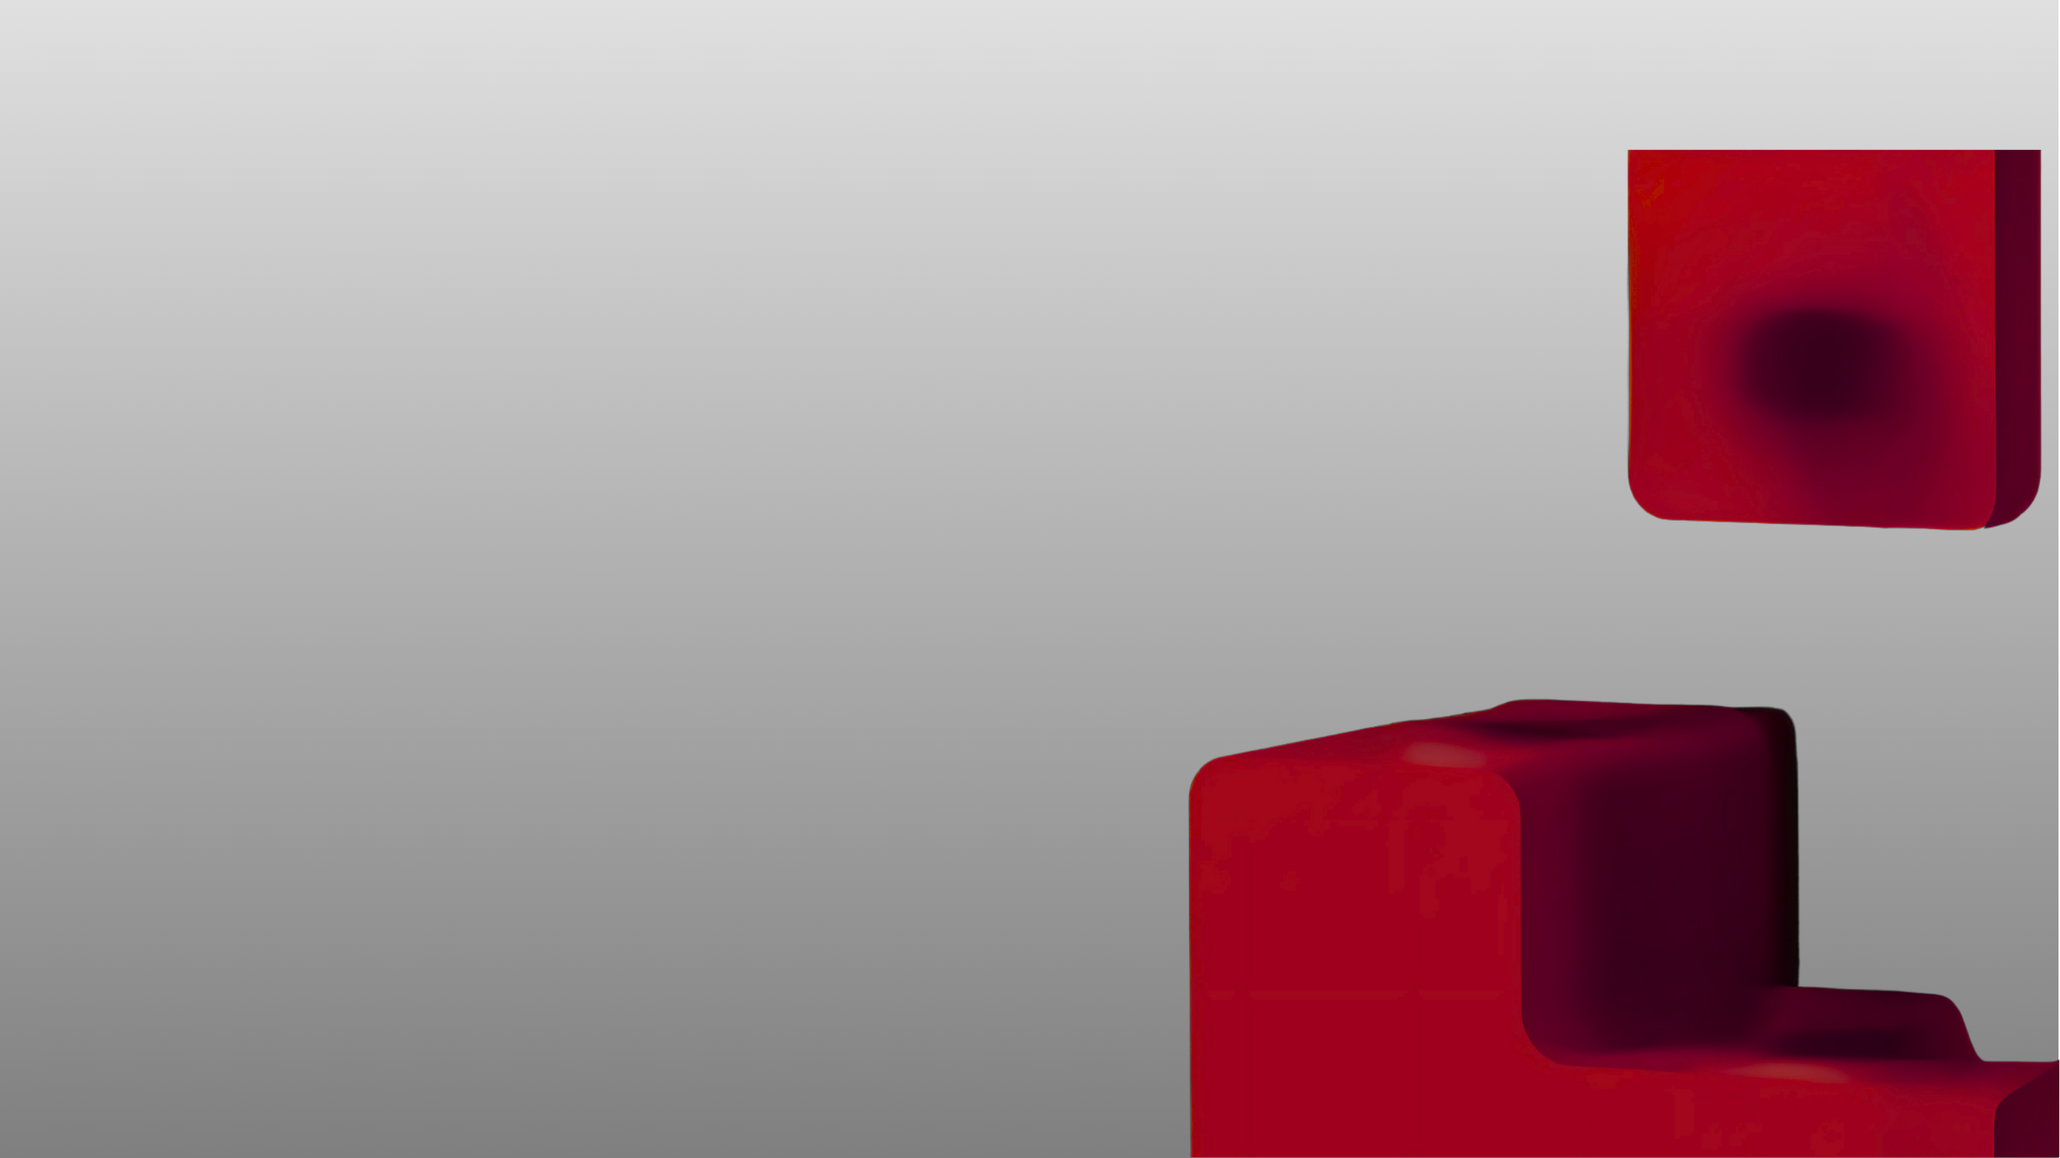
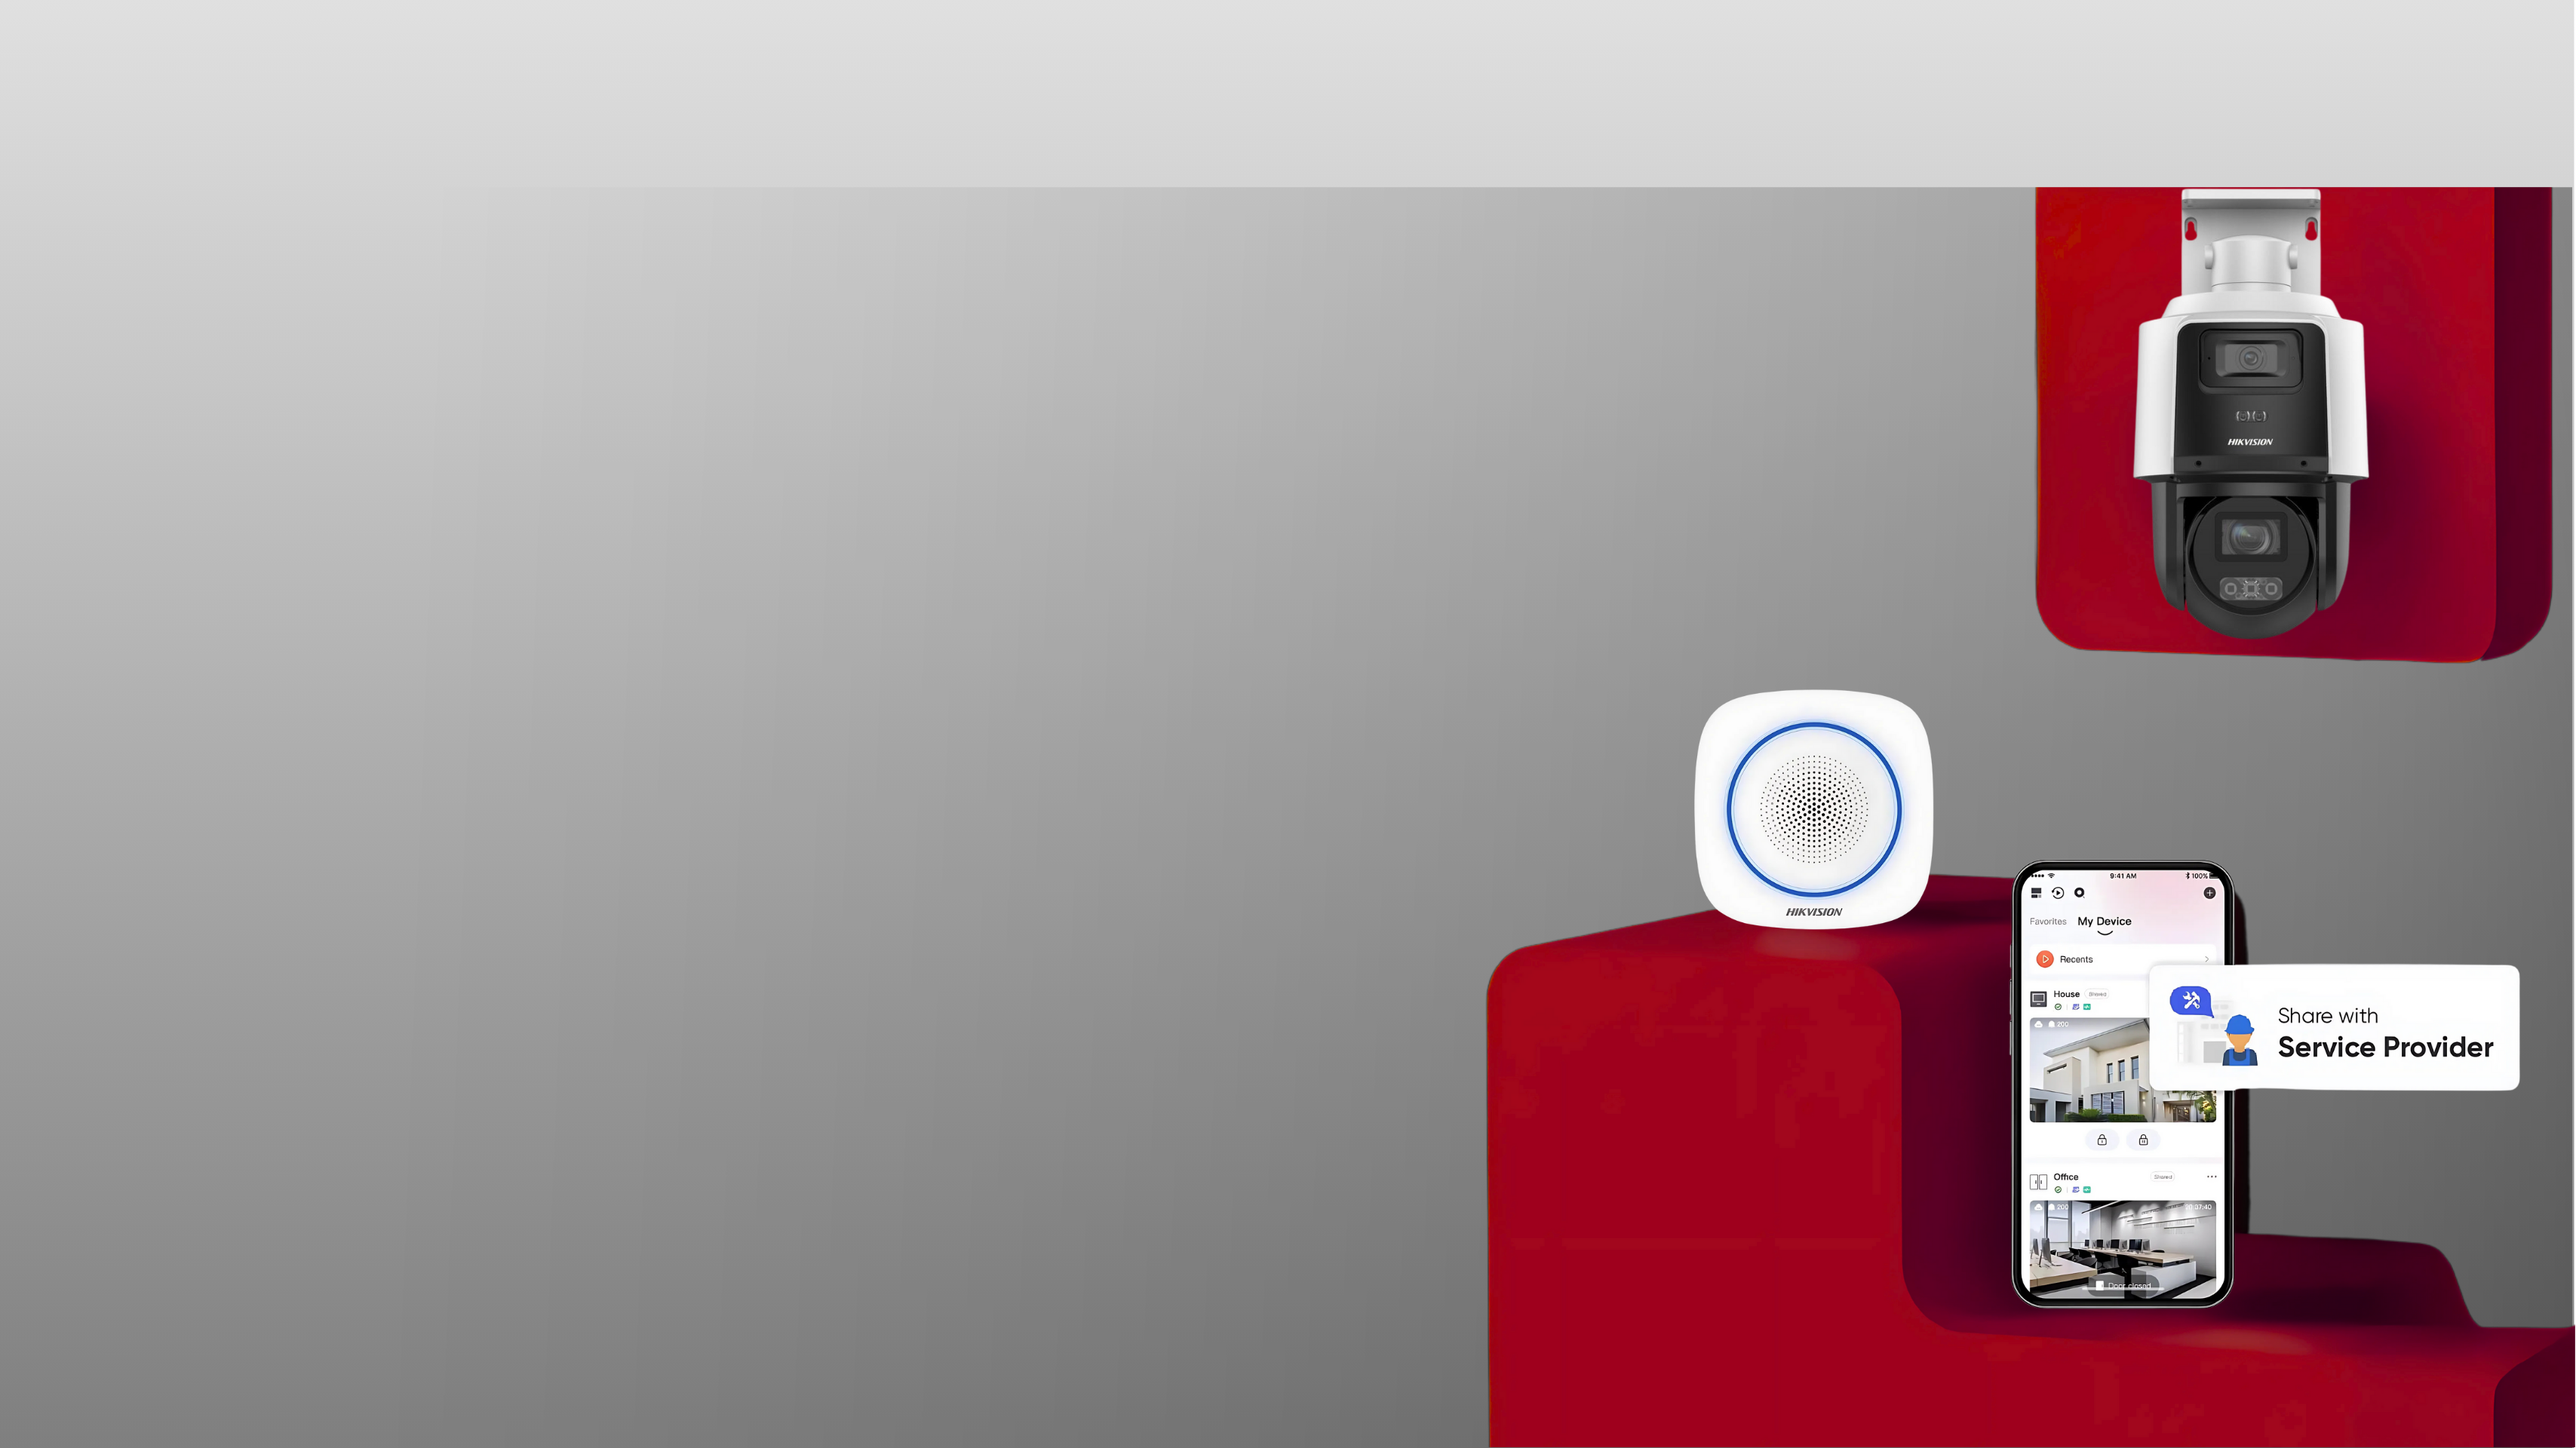
Update Fixed

Changed region(s): [[0.5289, 0.125, 1.0, 0.9375]]

diff --git a/components/AlarmSection.tsx b/components/AlarmSection.tsx
@@ -1,119 +1,90 @@
 "use client"
 
-import { useState } from "react"
+import { useState, useEffect } from "react"
 import Image from "next/image"
 
 export default function AlarmSection() {
     const [activeTab, setActiveTab] = useState("Break-in")
+    const [currentImage, setCurrentImage] = useState("/Images/Tab2/break-in (img).png")
+    const [fade, setFade] = useState(true)
+
+    const backgroundImages: { [key: string]: string } = {
+        "Break-in": "/Images/Tab2/break-in (img).png",
+        "Outdoor": "/Images/Tab2/outdoor.png",
+        "Deliveries": "/Images/Tab2/delivery.png",
+    }
+
+    const cctvImage = "/Images/break-in (cctv).png"
+
+    useEffect(() => {
+        setFade(false)
+        const timeout = setTimeout(() => {
+            setCurrentImage(backgroundImages[activeTab])
+            setFade(true)
+        }, 200) // delay before image swap
+        return () => clearTimeout(timeout)
+    }, [activeTab])
 
     return (
-        <div
-            style={{
-                maxWidth: "1000px",
-                margin: "0 auto",
-                padding: "10px 20px",
-                fontFamily: "Arial, sans-serif",
-            }}
-            className="!my-6 !mx-auto"
-        >
-            <h2
-                style={{
-                    textAlign: "center",
-                    fontSize: "36px",
-                    fontWeight: "bold",
-                    marginBottom: "16px",
-                }}
-            >
+        <div className="max-w-[1000px] mx-auto px-[20px] py-[10px] font-[Arial,sans-serif] my-6">
+            <h2 className="text-center text-[36px] font-bold mb-[16px]">
                 During an Alarm
             </h2>
 
-            <p
-                style={{
-                    textAlign: "center",
-                    fontSize: "18px",
-                    maxWidth: "800px",
-                    margin: "0 auto 30px",
-                    lineHeight: "1.5",
-                }}
-            >
+            <p className="text-center text-[18px] max-w-[800px] mx-auto mb-[30px] leading-[1.5]">
                 With the one-of-a-kind Pro Premium Monitoring Plan, our highly trained agents can act quickly in an emergency.
                 Here is how.
             </p>
 
             {/* Tab buttons */}
-            <div
-                style={{
-                    display: "flex",
-                    justifyContent: "center",
-                    gap: "16px",
-                    marginBottom: "24px",
-                }}
-            >
-                <div
-                    style={{
-                        display: "flex",
-                        flexWrap: "wrap",
-                        justifyContent: "center",
-                        gap: "10px",
-                        padding: "10px",
-                    }}
-                >
+            <div className="flex justify-center gap-[16px] mb-[24px]">
+                <div className="flex flex-wrap justify-center gap-[10px] p-[10px]">
                     {["Break-in", "Outdoor", "Deliveries"].map((tab) => (
                         <button
                             key={tab}
                             onClick={() => setActiveTab(tab)}
-                            style={{
-                                padding: "10px 24px",
-                                borderRadius: "30px",
-                                border: "1px solid #2196F3",
-                                backgroundColor: activeTab === tab ? "#2196F3" : "transparent",
-                                color: activeTab === tab ? "white" : "#2196F3",
-                                fontSize: "16px",
-                                fontWeight: "500",
-                                cursor: "pointer",
-                                transition: "all 0.3s ease",
-                                flex: "1 1 auto", // allow shrinking and growing
-                                minWidth: "100px", // minimum width for buttons
-                                textAlign: "center",
-                            }}
+                            className={`py-[10px] px-[24px] rounded-[30px] border border-[#2196F3] text-[16px] font-medium cursor-pointer transition-all duration-300 ease-in-out flex-[1_1_auto] min-w-[100px] text-center ${activeTab === tab
+                                ? "bg-[#2196F3] text-white"
+                                : "bg-transparent text-[#2196F3]"
+                                }`}
                         >
                             {tab}
                         </button>
                     ))}
                 </div>
-
             </div>
 
             <div className="relative w-full flex justify-center">
-                {/* Background Image */}
-                <Image
-                    className="mx-auto"
-                    src={'/Images/break-in (img).png'}
-                    alt="Break-in illustration"
-                    width={900}
-                    height={600}
-                />
+                {/* Background Image with fade transition */}
+                <div
+                    className={`transition-opacity duration-500 ${fade ? "opacity-100" : "opacity-0"}`}
+                >
+                    <Image
+                        className="mx-auto"
+                        src={currentImage}
+                        alt={`${activeTab} illustration`}
+                        width={900}
+                        height={600}
+                    />
+                </div>
 
                 {/* CCTV Image */}
                 <Image
                     className="
-      absolute 
-      bottom-[-40px] 
-      right-2 
-      w-[120px] 
-      sm:w-[160px] 
-      md:w-[300px] md:bottom-[-50px] md:right-10 
-      lg:w-[400px] lg:bottom-[-65px] lg:right-6
-    "
-                    src={'/Images/break-in (cctv).png'}
+                        absolute 
+                        bottom-[-40px] 
+                        right-2 
+                        w-[120px] 
+                        sm:w-[160px] 
+                        md:w-[300px] md:bottom-[-50px] md:right-10 
+                        lg:w-[400px] lg:bottom-[-65px] lg:right-6
+                    "
+                    src={cctvImage}
                     alt="Camera"
                     width={400}
                     height={400}
                 />
             </div>
-
-
         </div>
     )
 }
-

diff --git a/components/security-tabs.tsx b/components/security-tabs.tsx
@@ -13,6 +13,7 @@ export default function SecurityTabs() {
       id: "camera",
       label: "Camera",
       title: "Indoor and outdoor CCTV",
+      image: "/Images/Tabs/camera screenshot.png",
       features: [
         "Easily accessible on multiple devices including phones.",
         "Easy download of incident footage",
@@ -25,6 +26,7 @@ export default function SecurityTabs() {
       id: "doorbell",
       label: "Doorbell",
       title: "Smart Doorbell System",
+      image: "/Images/Tabs/doorbell.png",
       features: [
         "Two-way audio communication",
         "Motion-activated alerts",
@@ -37,6 +39,7 @@ export default function SecurityTabs() {
       id: "intercom",
       label: "Intercom",
       title: "Building Intercom System",
+      image: "/Images/Tabs/intercom.png",
       features: [
         "Connect with visitors at entrance",
         "Remote door unlock feature",
@@ -49,6 +52,7 @@ export default function SecurityTabs() {
       id: "alarms",
       label: "Alarms",
       title: "Security Alarm Solutions",
+      image: "/Images/Tabs/alarm.png",
       features: [
         "24/7 monitoring capabilities",
         "Instant notifications on your devices",
@@ -59,13 +63,14 @@ export default function SecurityTabs() {
     },
   ]
 
+
   return (
-    <div className="flex flex-col md:flex-row overflow-hidden rounded-4xl max-w-6xl mx-auto   my-12">
+    <div className="flex flex-col md:flex-row overflow-hidden rounded-4xl max-w-6xl mx-auto my-12">
       <div className="w-full md:w-5/12 bg-gray-100 p-6 flex items-center justify-center">
         <div className="relative max-w-[500px]">
           <Image
-            src="/Images/camera screenshot.png"
-            alt="Security camera app on smartphone"
+            src={tabs.find(tab => tab.id === activeTab)?.image || "/Images/default.png"}
+            alt={tabs.find(tab => tab.id === activeTab)?.title || "Security system"}
             width={500}
             height={600}
             className="object-contain"
@@ -73,14 +78,14 @@ export default function SecurityTabs() {
         </div>
       </div>
 
-      <div className="w-full md:w-7/12 bg-[#0c2350] text-white p-6">
+      <div className=" md:mx-0  mx-2   md:w-7/12 bg-[#0c2350] text-white p-2 md:p-6">
         <div className="flex border-b border-[#1c3a6e]">
           {tabs.map((tab) => (
             <button
               key={tab.id}
               onClick={() => setActiveTab(tab.id)}
               className={cn(
-                "px-4 py-3 text-lg font-medium relative",
+                "px-2  md:px-4 py-3 text-md md:text-lg  font-medium relative",
                 activeTab === tab.id ? "text-white" : "text-white/70 hover:text-white/90",
               )}
             >

diff --git a/components/SecuritySelection.tsx b/components/SecuritySelection.tsx
@@ -17,7 +17,7 @@ export default function SecuritySelection() {
                         {/* Residential Option */}
                         <div className="flex flex-col items-center">
                             <div className="border-2 border-[#2b8cb4] rounded-3xl p-4 mb-4 w-36 h-36 flex items-center justify-center">
-                                <Image src="/house-icon.png" alt="Residential" width={100} height={100} className="object-contain" />
+                                <Image src="/Images/Property/Property1.png" alt="Residential" width={100} height={100} className="object-contain" />
                             </div>
                             <Link
                                 href="/residential"
@@ -30,7 +30,7 @@ export default function SecuritySelection() {
                         {/* Commercial Option */}
                         <div className="flex flex-col items-center">
                             <div className="border-2 border-[#2b8cb4] rounded-3xl p-4 mb-4 w-36 h-36 flex items-center justify-center">
-                                <Image src="/market-icon.png" alt="Commercial" width={100} height={100} className="object-contain" />
+                                <Image src="/Images/Property/Property2.png"alt="Commercial" width={100} height={100} className="object-contain" />
                             </div>
                             <Link
                                 href="/commercial"
@@ -52,7 +52,7 @@ export default function SecuritySelection() {
                     </div>
 
                     <div className="mt-auto">
-                        <Image src="/living-room.png" alt="Cozy living room" width={400} height={300} className="object-contain" />
+                        <Image src="/Images/Property/Property3.png" alt="Cozy living room" width={400} height={300} className="object-contain" />
                     </div>
                 </div>
             </div>

diff --git a/components/CTASection.tsx b/components/CTASection.tsx
@@ -5,7 +5,7 @@ export default function CTASection() {
         <section className="w-full py-12">
             <div className="container mx-auto px-4 ">
                 <div className="rounded-4xl overflow-hidden bg-cover bg-center"
-                    style={{ backgroundImage: 'url("/Images/background 1.png")' }} 
+                    style={{ backgroundImage: 'url("/Images/background 1.png")' }}
                 >
                     <div className="flex flex-col md:flex-row items-center justify-between px-8 md:px-16 py-24">
                         <div className="flex flex-col md:flex-row items-center gap-4 md:gap-8">
@@ -15,12 +15,7 @@ export default function CTASection() {
                             >
                                 Take our Quiz
                             </Link>
-                            <Link
-                                href="#products"
-                                className="bg-transparent text-white font-semibold py-3 px-8 rounded-md text-lg border-2 border-white hover:bg-white/10 transition-colors"
-                            >
-                                Explore Products
-                            </Link>
+
                         </div>
 
                     </div>

diff --git a/components/ClientCarousel.tsx b/components/ClientCarousel.tsx
@@ -83,6 +83,13 @@ export default function ClientCarousel() {
         window.addEventListener("resize", handleResize)
         return () => window.removeEventListener("resize", handleResize)
     }, [])
+    useEffect(() => {
+        const interval = setInterval(() => {
+            handleNext()
+        }, 3000) // change slide every 3 seconds
+
+        return () => clearInterval(interval) // cleanup on unmount
+    }, [currentIndex])
 
     // Get visible clients
     const getVisibleClients = () => {
